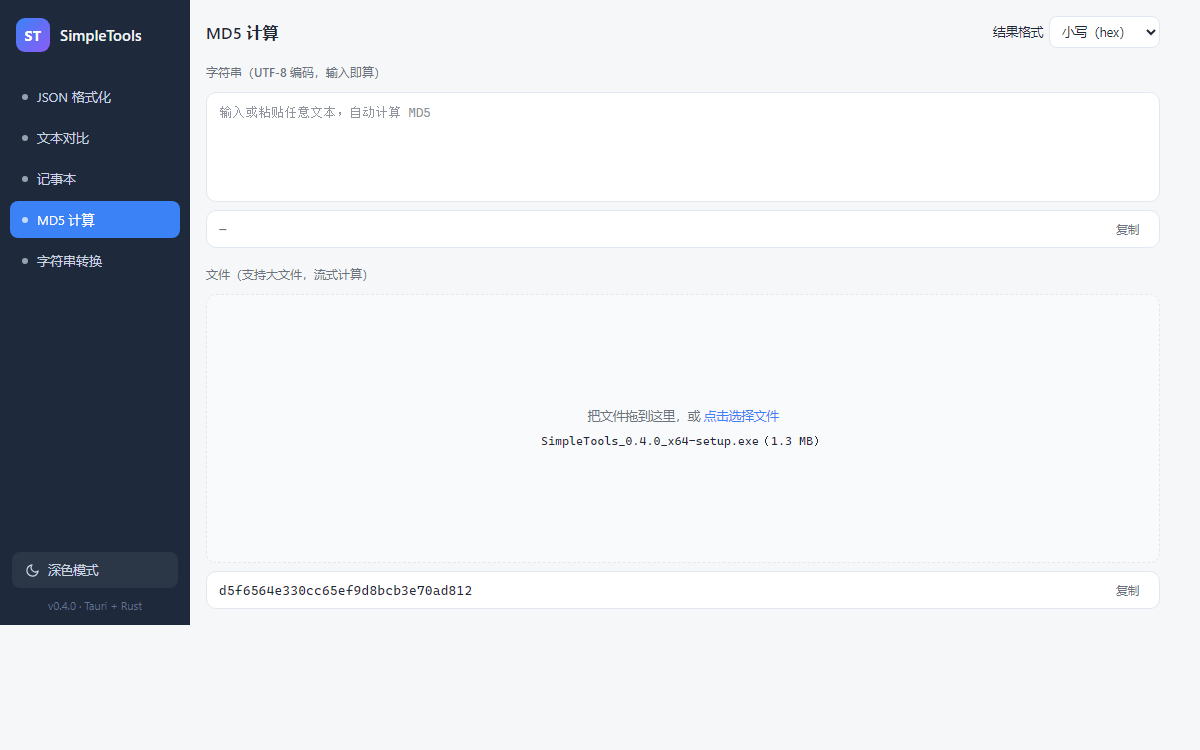
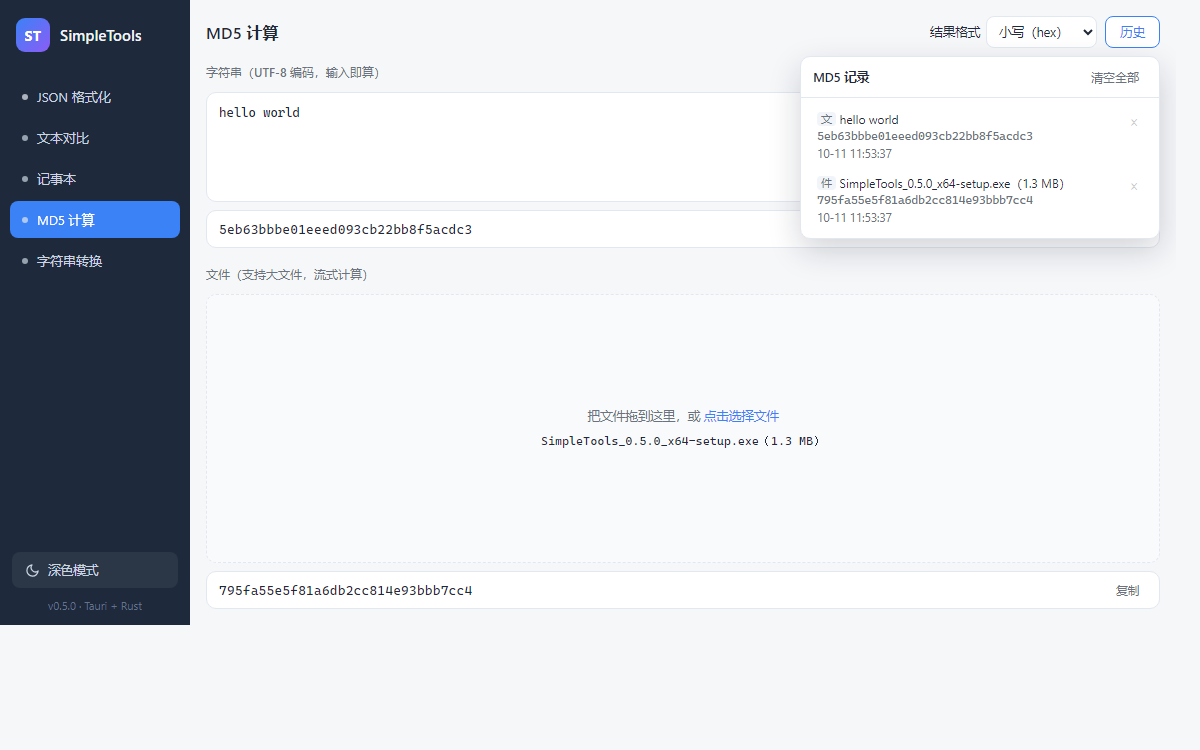
v0.5.0: MD5 计算与字符串转换新增历史记录（文本/文件结果自动留存、点击恢复，字符串输入防抖记录；四类记录统一存储管理）

diff --git a/src/modules/history.js b/src/modules/history.js
@@ -9,7 +9,7 @@
   const SAVE_DELAY = 400;     // 保存防抖延迟
 
   // 内存数据（invoke 不可用时的降级 / 无头测试环境）
-  const state = { json: [], diff: [] };
+  const state = { json: [], diff: [], md5: [], str: [] };
   const pane = {};            // kind → { btn, pop, list, clear, onRestore }
   let openKind = null;
   let saveTimer = null;
@@ -49,8 +49,9 @@
     if (!invoke) return;
     clearTimeout(saveTimer);
     saveTimer = setTimeout(function () {
-      invoke('history_save', { data: { json: state.json, diff: state.diff } })
-        .catch(function () { /* 保存失败不打断主流程 */ });
+      invoke('history_save', {
+        data: { json: state.json, diff: state.diff, md5: state.md5, str: state.str },
+      }).catch(function () { /* 保存失败不打断主流程 */ });
     }, SAVE_DELAY);
   }
 
@@ -59,12 +60,12 @@
     try {
       const data = await invoke('history_load');
       if (data) {
-        if (Array.isArray(data.json)) state.json = data.json;
-        if (Array.isArray(data.diff)) state.diff = data.diff;
+        for (const kind of ['json', 'diff', 'md5', 'str']) {
+          if (Array.isArray(data[kind])) state[kind] = data[kind];
+        }
       }
     } catch (e) { /* 首次使用或文件损坏时按空数据继续 */ }
-    render('json');
-    render('diff');
+    ['json', 'diff', 'md5', 'str'].forEach(render);
   }
 
   // ---------- 数据操作 ----------
@@ -73,7 +74,9 @@
     const top = state[kind][0];
     if (!top) return false;
     if (kind === 'json') return top.input === rec.input && top.output === rec.output;
-    return top.left === rec.left && top.right === rec.right;
+    if (kind === 'diff') return top.left === rec.left && top.right === rec.right;
+    if (kind === 'md5') return top.kind === rec.kind && top.input === rec.input && top.hash === rec.hash;
+    return top.input === rec.input; // str
   }
 
   /**
@@ -82,7 +85,11 @@
   function add(kind, rec) {
     if (kind === 'json') {
       if (rec.input.length > MAX_TEXT || rec.output.length > MAX_TEXT) return 'too-large';
-    } else if (rec.left.length > MAX_TEXT || rec.right.length > MAX_TEXT) {
+    } else if (kind === 'diff') {
+      if (rec.left.length > MAX_TEXT || rec.right.length > MAX_TEXT) return 'too-large';
+    } else if (kind === 'md5') {
+      if (rec.input.length > MAX_TEXT || rec.hash.length > MAX_TEXT) return 'too-large';
+    } else if (rec.input.length > MAX_TEXT) {
       return 'too-large';
     }
     if (isDuplicate(kind, rec)) return 'dup';
@@ -115,11 +122,21 @@
     if (kind === 'json') {
       return '<div class="hist-item-summary">' + esc(digest(rec.input, 90)) + '</div>';
     }
-    return '<div class="hist-item-lines">' +
-      '<div class="hist-line"><span class="hist-tag tag-left">左</span>' +
-      esc(digest(rec.left, 60)) + '</div>' +
-      '<div class="hist-line"><span class="hist-tag tag-right">右</span>' +
-      esc(digest(rec.right, 60)) + '</div></div>';
+    if (kind === 'diff') {
+      return '<div class="hist-item-lines">' +
+        '<div class="hist-line"><span class="hist-tag tag-left">左</span>' +
+        esc(digest(rec.left, 60)) + '</div>' +
+        '<div class="hist-line"><span class="hist-tag tag-right">右</span>' +
+        esc(digest(rec.right, 60)) + '</div></div>';
+    }
+    if (kind === 'md5') {
+      return '<div class="hist-item-lines">' +
+        '<div class="hist-line"><span class="hist-tag tag-kind">' +
+        (rec.kind === 'file' ? '件' : '文') + '</span>' + esc(digest(rec.input, 46)) + '</div>' +
+        '<div class="hist-line hist-hash">' + esc(rec.hash) + '</div></div>';
+    }
+    // str
+    return '<div class="hist-item-summary">' + esc(digest(rec.input, 90)) + '</div>';
   }
 
   function render(kind) {

diff --git a/src/index.html b/src/index.html
@@ -59,7 +59,7 @@
         </svg>
         <span id="theme-label">深色模式</span>
       </button>
-      <div class="version">v0.4.0 · Tauri + Rust</div>
+      <div class="version">v0.5.0 · Tauri + Rust</div>
     </div>
   </aside>
 
@@ -201,6 +201,16 @@
               <option value="base64">Base64</option>
             </select>
           </label>
+          <div class="hist-anchor">
+            <button class="btn" id="md5-history-btn" title="查看 MD5 计算历史记录（点击记录可恢复）">历史</button>
+            <div class="hist-pop hidden" id="md5-history-pop">
+              <div class="hist-head">
+                <span class="hist-title">MD5 记录</span>
+                <button class="hist-clear" id="md5-history-clear">清空全部</button>
+              </div>
+              <div class="hist-list" id="md5-history-list"></div>
+            </div>
+          </div>
         </div>
       </header>
       <div class="md5-layout">
@@ -233,6 +243,16 @@
         <h2>字符串转换</h2>
         <div class="panel-actions">
           <span class="str-tip">大小写 / 驼峰 / 下划线 / 中划线 / 常量，输入即生成</span>
+          <div class="hist-anchor">
+            <button class="btn" id="str-history-btn" title="查看转换历史记录（点击记录可恢复）">历史</button>
+            <div class="hist-pop hidden" id="str-history-pop">
+              <div class="hist-head">
+                <span class="hist-title">转换记录</span>
+                <button class="hist-clear" id="str-history-clear">清空全部</button>
+              </div>
+              <div class="hist-list" id="str-history-list"></div>
+            </div>
+          </div>
         </div>
       </header>
       <div class="str-layout">

diff --git a/src/modules/md5.js b/src/modules/md5.js
@@ -77,9 +77,12 @@
       return;
     }
     calcTimer = setTimeout(async () => {
+      const text = textEl.value;
       try {
-        textHash = await invoke('md5_text', { text: textEl.value });
+        textHash = await invoke('md5_text', { text: text });
         renderResults();
+        // 写入字符串计算历史记录
+        window.historyStore.add('md5', { kind: 'text', input: text, hash: textHash });
       } catch (e) {
         textHash = '';
         setError(textResultEl, String(e));
@@ -105,6 +108,8 @@
       fileHash = r.hash;
       fileInfoEl.textContent = r.name + '（' + humanSize(r.size) + '）';
       renderResults();
+      // 写入文件计算历史记录
+      window.historyStore.add('md5', { kind: 'file', input: fileInfoEl.textContent, hash: fileHash });
     } catch (e) {
       setError(fileResultEl, String(e));
       fileInfoEl.textContent = '';
@@ -160,5 +165,26 @@
       return;
     }
     await window.copyText(formatHash(fileHash), '已复制 MD5');
+  });
+
+  // ---------- 历史记录 ----------
+
+  window.historyStore.bindPanel({
+    kind: 'md5',
+    label: 'MD5 记录',
+    btn: document.getElementById('md5-history-btn'),
+    pop: document.getElementById('md5-history-pop'),
+    list: document.getElementById('md5-history-list'),
+    clear: document.getElementById('md5-history-clear'),
+    onRestore(rec) {
+      if (rec.kind === 'file') {
+        fileHash = rec.hash;
+        fileInfoEl.textContent = rec.input;
+      } else {
+        textEl.value = rec.input;
+        textHash = rec.hash;
+      }
+      renderResults();
+    },
   });
 })();

diff --git a/src/modules/str.js b/src/modules/str.js
@@ -101,7 +101,20 @@
 
   // ---------- 事件 ----------
 
-  inputEl.addEventListener('input', render);
+  const RECORD_DELAY = 1200; // 输入停止后写入历史记录的防抖延迟
+  let recordTimer = null;
+
+  function recordHistory() {
+    if (!inputEl.value.trim()) return;
+    window.historyStore.add('str', { input: inputEl.value });
+  }
+
+  inputEl.addEventListener('input', () => {
+    render();
+    // 连续输入时延迟记录，避免记录中间状态
+    clearTimeout(recordTimer);
+    recordTimer = setTimeout(recordHistory, RECORD_DELAY);
+  });
 
   resultsEl.addEventListener('click', async function (e) {
     const btn = e.target.closest('.pane-copy');
@@ -119,4 +132,19 @@
 
   buildRows();
   render();
+
+  // ---------- 历史记录 ----------
+
+  window.historyStore.bindPanel({
+    kind: 'str',
+    label: '转换记录',
+    btn: document.getElementById('str-history-btn'),
+    pop: document.getElementById('str-history-pop'),
+    list: document.getElementById('str-history-list'),
+    clear: document.getElementById('str-history-clear'),
+    onRestore(rec) {
+      inputEl.value = rec.input;
+      render();
+    },
+  });
 })();

diff --git a/src/styles.css b/src/styles.css
@@ -1138,6 +1138,17 @@ textarea[readonly] {
   color: var(--red-strong);
 }
 
+.hist-tag.tag-kind {
+  background: var(--border-light);
+  color: var(--text-dim);
+}
+
+.hist-line.hist-hash {
+  font-family: var(--mono);
+  font-size: 11.5px;
+  color: var(--text-dim);
+}
+
 .hist-item-time {
   font-size: 11.5px;
   color: var(--text-dim);

diff --git a/src-tauri/src/history.rs b/src-tauri/src/history.rs
@@ -23,6 +23,28 @@ pub struct DiffRecord {
     pub time: u64,
 }
 
+/// 单条 MD5 计算记录（kind: "text" 字符串 / "file" 文件）
+#[derive(Debug, Clone, Serialize, Deserialize)]
+pub struct Md5Record {
+    pub id: String,
+    pub kind: String,
+    /// 文本原文或"文件名（大小）"
+    pub input: String,
+    /// 原始小写 hex 哈希
+    pub hash: String,
+    /// 记录时间（毫秒时间戳）
+    pub time: u64,
+}
+
+/// 单条字符串转换记录
+#[derive(Debug, Clone, Serialize, Deserialize)]
+pub struct StrRecord {
+    pub id: String,
+    pub input: String,
+    /// 记录时间（毫秒时间戳）
+    pub time: u64,
+}
+
 /// 全部历史记录数据
 #[derive(Debug, Clone, Default, Serialize, Deserialize)]
 pub struct HistoryData {
@@ -30,6 +52,10 @@ pub struct HistoryData {
     pub json: Vec<JsonRecord>,
     #[serde(default)]
     pub diff: Vec<DiffRecord>,
+    #[serde(default)]
+    pub md5: Vec<Md5Record>,
+    #[serde(default)]
+    pub str: Vec<StrRecord>,
 }
 
 /// 历史数据文件路径：{AppData}/com.simpletools.desktop/history.json

diff --git a/README.md b/README.md
@@ -1,7 +1,7 @@
 # SimpleTools
 
 常用工具合集 —— 基于 **Tauri 2 + Rust** 的 Windows 桌面小工具，界面简约、开箱即用。
-安装包仅约 1.2 MB，默认白色主题，支持暗黑模式。
+安装包仅约 1.3 MB，默认白色主题，支持暗黑模式。
 
 ## 效果预览
 
@@ -23,15 +23,15 @@
 
 ![记事本](screenshots/notes.png)
 
-### MD5 计算（字符串 + 文件）
+### MD5 计算（字符串 + 文件 + 历史记录）
 
-字符串输入实时计算；文件可点击选择或直接从资源管理器拖入（大文件流式计算）；结果支持小写 hex / 大写 HEX / Base64 三种格式。
+字符串输入实时计算；文件可点击选择或直接从资源管理器拖入（大文件流式计算）；结果支持小写 hex / 大写 HEX / Base64 三种格式；文本 / 文件计算结果自动留存历史记录，点击记录可恢复输入与哈希（下图为历史记录下拉）。
 
 ![MD5 计算](screenshots/md5.png)
 
-### 字符串转换（大小写 + 命名风格）
+### 字符串转换（大小写 + 命名风格 + 历史记录）
 
-输入一个字符串，自动生成全大写 / 全小写 / 首字母大写 / 驼峰 / 大驼峰 / 下划线 / 中划线 / 常量共 8 种结果，点击行尾即可复制；自动识别下划线、中划线、空格、点分隔及已有驼峰，多行输入按行转换。
+输入一个字符串，自动生成全大写 / 全小写 / 首字母大写 / 驼峰 / 大驼峰 / 下划线 / 中划线 / 常量共 8 种结果，点击行尾即可复制；自动识别下划线、中划线、空格、点分隔及已有驼峰，多行输入按行转换；输入停止后自动留存历史记录，点击记录可恢复输入并重新转换（下图为历史记录下拉）。
 
 ![字符串转换](screenshots/str.png)
 
@@ -46,8 +46,8 @@
 - [x] **JSON 格式化** —— 格式化 / 压缩；自动去转义（默认开启、可选）；2 / 4 空格或 Tab 缩进；输入输出一键复制；格式化 / 压缩历史记录（自动留存、点击恢复、单条删除、一键清空）；`Ctrl+Enter` 快捷格式化
 - [x] **文本对比** —— 行级 + 字符级差异高亮（左侧绿、右侧红）；左右文本与对比结果一键复制（结果含 `-` / `+` 差异标记）；对比历史记录（点击恢复左右文本并自动重新对比）；忽略首尾空白选项；交换左右 / 清空；`Ctrl+Enter` 快捷对比
 - [x] **记事本** —— 左列表右详情；标题 + 正文；本地缓存自动保存（原子写入防损坏）；`Ctrl+N` 新建；列表拖动排序；删除弹窗确认；复制正文；数据备份
-- [x] **MD5 计算** —— 字符串实时计算（UTF-8）；文件点击选择或拖入计算（1 MB 分块流式，不占内存）；小写 / 大写 / Base64 三种输出格式；一键复制
-- [x] **字符串转换** —— 输入即生成 8 种格式：全大写 / 全小写 / 首字母大写 / 驼峰（camelCase）/ 大驼峰（PascalCase）/ 下划线（snake_case）/ 中划线（kebab-case）/ 常量（CONSTANT_CASE）；自动识别下划线、中划线、空格、点分隔与已有驼峰；多行按行转换；逐行一键复制
+- [x] **MD5 计算** —— 字符串实时计算（UTF-8）；文件点击选择或拖入计算（1 MB 分块流式，不占内存）；小写 / 大写 / Base64 三种输出格式；一键复制；文本 / 文件计算历史记录（自动留存、点击恢复、单条删除、一键清空）
+- [x] **字符串转换** —— 输入即生成 8 种格式：全大写 / 全小写 / 首字母大写 / 驼峰（camelCase）/ 大驼峰（PascalCase）/ 下划线（snake_case）/ 中划线（kebab-case）/ 常量（CONSTANT_CASE）；自动识别下划线、中划线、空格、点分隔与已有驼峰；多行按行转换；逐行一键复制；输入历史记录（停止输入后自动留存、点击恢复）
 - [x] **界面主题** —— 默认简约白色；暗黑模式一键切换并记忆；切换平滑过渡
 - [x] **全局体验** —— 无边框简约布局、Toast 轻提示、剪贴板复制三级降级（Tauri 插件 → 浏览器 API → 兜底方案）
 
@@ -68,7 +68,7 @@ npm run build
 
 构建产物：
 
-- 安装包：`src-tauri/target/release/bundle/nsis/SimpleTools_0.4.0_x64-setup.exe`
+- 安装包：`src-tauri/target/release/bundle/nsis/SimpleTools_0.5.0_x64-setup.exe`
 - 免安装单文件：`src-tauri/target/release/SimpleTools.exe`
 
 > 首次构建约需几分钟（Rust 编译）；前端为静态资源，修改 `src/` 后需重新执行 `npm run build` 才生效。
@@ -106,7 +106,7 @@ SimpleTools/
 │   ├── styles.css
 │   ├── main.js           # 导航 & Toast & 主题切换 & 复制 / 弹窗组件
 │   └── modules/
-│       ├── history.js      # 历史记录（格式化 / 对比记录，与面板绑定）
+│       ├── history.js      # 历史记录（格式化 / 对比 / MD5 / 转换，与面板绑定）
 │       ├── json-format.js  # JSON 格式化
 │       ├── text-diff.js    # 文本对比（LCS diff）
 │       ├── notes.js        # 记事本（拖动排序 + 自动保存）
@@ -128,6 +128,12 @@ SimpleTools/
 ```
 
 ## 更新日志
+
+### v0.5.0（2026-10-11）
+
+- MD5 计算新增历史记录：字符串 / 文件计算结果自动留存（最多 50 条），点击记录一键恢复输入与哈希
+- 字符串转换新增历史记录：输入停止 1.2 秒后自动留存（避免记录中间状态），点击记录恢复输入并重新转换
+- 历史记录统一管理：四类记录（格式化 / 对比 / MD5 / 转换）共用本地存储，统一 50 条上限、自动去重、单条删除与一键清空
 
 ### v0.4.0（2026-10-11）
 
